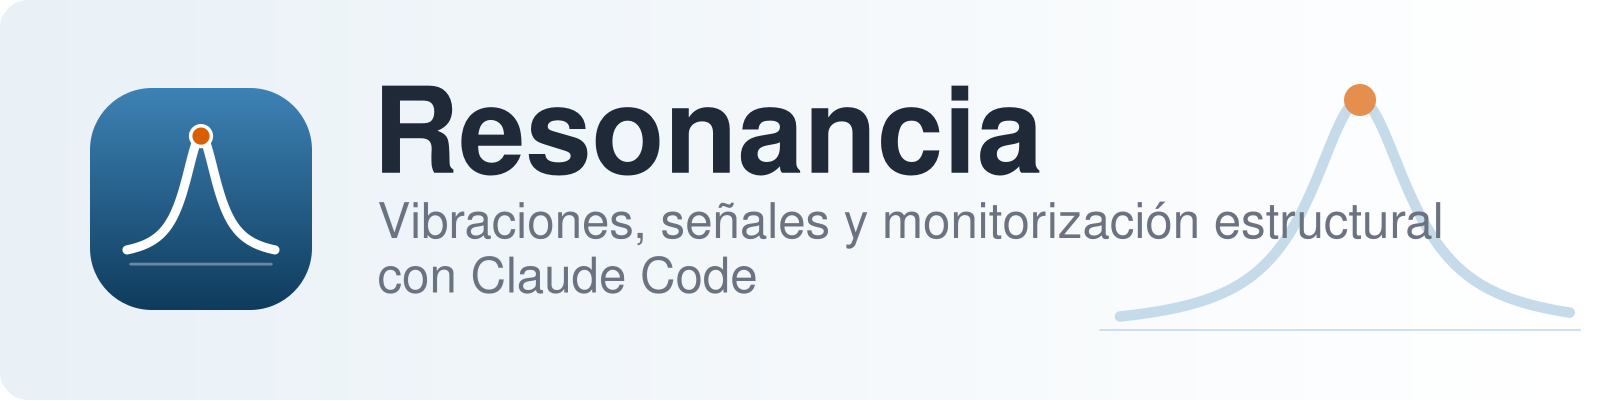
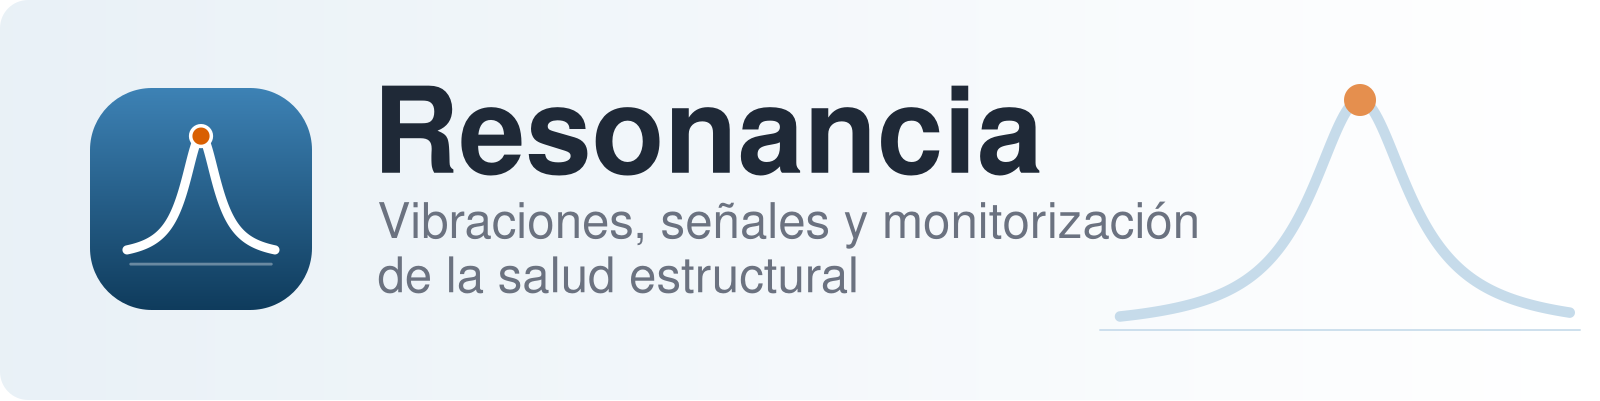
Unifica el subtítulo y la presentación como material docente
Sustituye «con Claude Code» por «de la salud estructural» en el temario, la
descripción del sitio, CITATION, README, Acerca de y las imágenes de marca.

Changed region(s): [[0.25, 0.6284, 0.5312, 0.7481], [0.75, 0.5087, 0.9062, 0.5985]]

diff --git a/recursos/identidad/fig/banner.tex b/recursos/identidad/fig/banner.tex
@@ -17,7 +17,7 @@
     \fill[rNaranja] (1.5,2.35) circle (0.14);  \draw[white, line width=1pt] (1.5,2.35) circle (0.14);
   \end{scope}
   \node[anchor=west, font=\sffamily\bfseries\fontsize{34}{36}\selectfont, color=rTinta] at (3.6,2.7) {Resonancia};
-  \node[anchor=west, font=\sffamily\fontsize{14}{16}\selectfont, color=rGris] at (3.65,1.75) {Vibraciones, señales y monitorización estructural};
-  \node[anchor=west, font=\sffamily\fontsize{14}{16}\selectfont, color=rGris] at (3.65,1.25) {con Claude Code};
+  \node[anchor=west, font=\sffamily\fontsize{14}{16}\selectfont, color=rGris] at (3.65,1.75) {Vibraciones, señales y monitorización};
+  \node[anchor=west, font=\sffamily\fontsize{14}{16}\selectfont, color=rGris] at (3.65,1.25) {de la salud estructural};
 \end{tikzpicture}
 \end{document}

diff --git a/recursos/identidad/fig/social.tex b/recursos/identidad/fig/social.tex
@@ -16,7 +16,7 @@
   \end{scope}
   \node[anchor=west, font=\sffamily\bfseries\fontsize{44}{46}\selectfont, color=white] at (5.0,5.75) {Resonancia};
   \node[anchor=west, font=\sffamily\fontsize{16}{19}\selectfont, color=white] at (5.05,4.65) {Vibraciones, señales y monitorización};
-  \node[anchor=west, font=\sffamily\fontsize{16}{19}\selectfont, color=white] at (5.05,4.1) {estructural con Claude Code};
+  \node[anchor=west, font=\sffamily\fontsize{16}{19}\selectfont, color=white] at (5.05,4.1) {de la salud estructural};
   \node[anchor=west, font=\sffamily\fontsize{13}{15}\selectfont, color=white, opacity=0.8] at (1.4,1.3) {me1catrr.github.io/resonancia};
 \end{tikzpicture}
 \end{document}

diff --git a/README.md b/README.md
@@ -1,16 +1,16 @@
 <p align="center">
-  <img src="recursos/identidad/fig/banner.svg" alt="Resonancia: vibraciones, señales y monitorización estructural con Claude Code" width="760">
+  <img src="recursos/identidad/fig/banner.svg" alt="Resonancia: vibraciones, señales y monitorización de la salud estructural" width="760">
 </p>
 
 # Resonancia
 
-**Vibraciones, señales y monitorización estructural con Claude Code.**
+**Vibraciones, señales y monitorización de la salud estructural.**
 
-Resonancia es una web de autoformación para aprender a analizar vibraciones y señales de
-estructuras reales y a trabajar con un asistente de programación con criterio. Parte de un caso
-concreto, una planta termosolar con colectores cilindro-parabólicos, y acompaña a la asignatura
-*Monitorización de la Salud Estructural* (655023) del Máster Universitario en Ingeniería Industrial
-de la Universidad de Córdoba.
+Resonancia es el material docente de la asignatura *Monitorización de la Salud Estructural* (655023)
+del Máster Universitario en Ingeniería Industrial de la Universidad de Córdoba. Reúne fundamentos,
+problemas, análisis de datos experimentales, simulaciones y programación científica para analizar
+vibraciones y señales de estructuras reales, con una planta termosolar de colectores
+cilindro-parabólicos como hilo conductor. Puede seguirse también de forma autónoma.
 
 Web: <https://me1catrr.github.io/resonancia/>
 

diff --git a/CLAUDE.md b/CLAUDE.md
@@ -1,8 +1,9 @@
 # Resonancia — instrucciones para Claude Code
 
 ## Qué es este proyecto
-Web de autoformación en Quarto: *Vibraciones, señales y monitorización
-estructural con Claude Code*. Responsable único: Rafael Castro Triguero
+Material docente en Quarto de la asignatura *Monitorización de la Salud
+Estructural* (Máster Universitario en Ingeniería Industrial, Universidad de Córdoba):
+*Vibraciones, señales y monitorización de la salud estructural*. Responsable único: Rafael Castro Triguero
 (GitHub `me1catrr`). Se publica en https://me1catrr.github.io/resonancia/.
 
 Dos vías y recursos:
